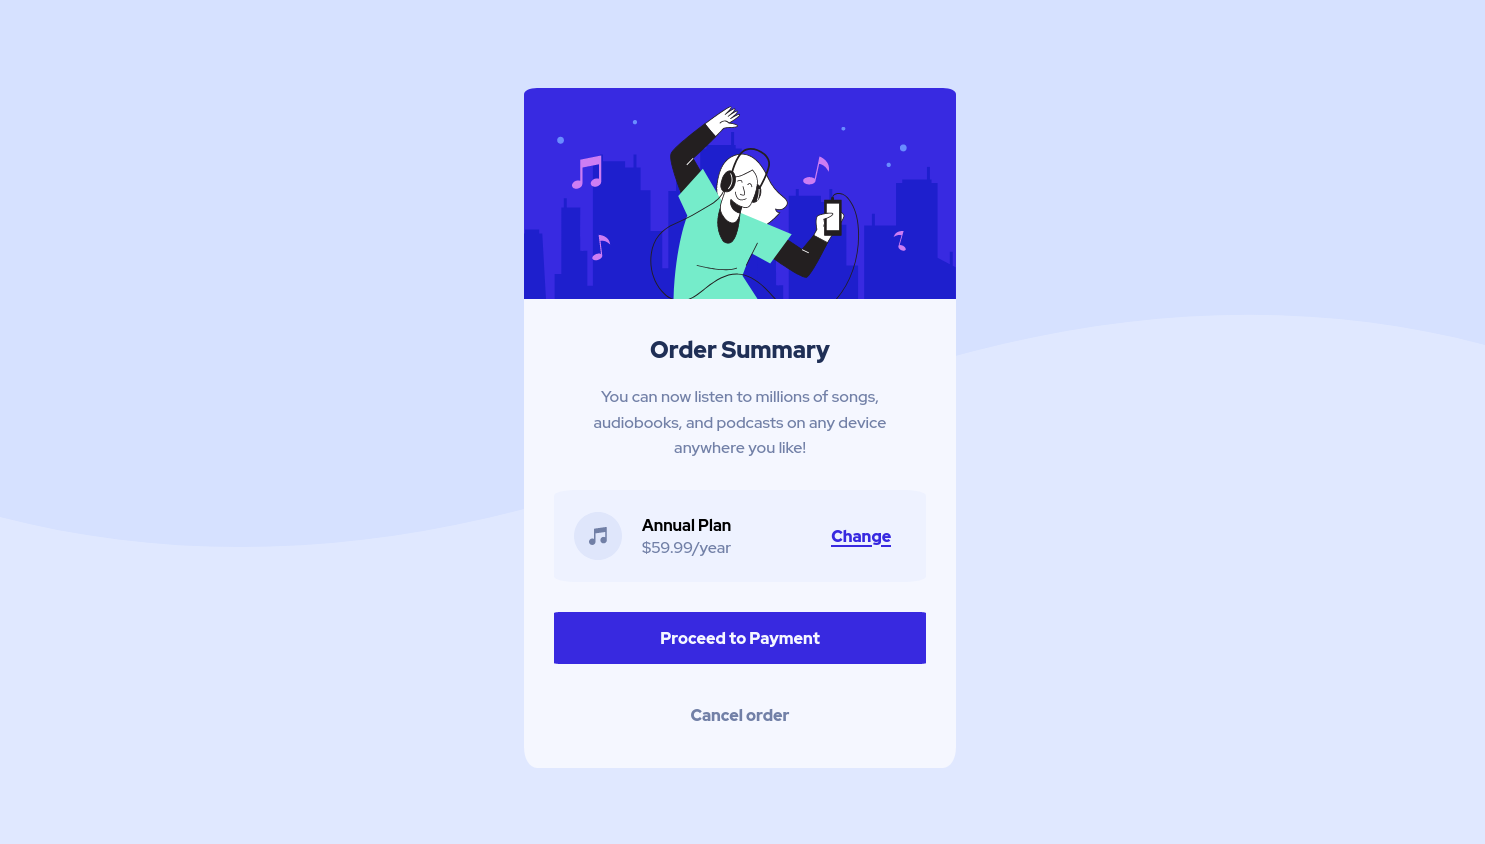
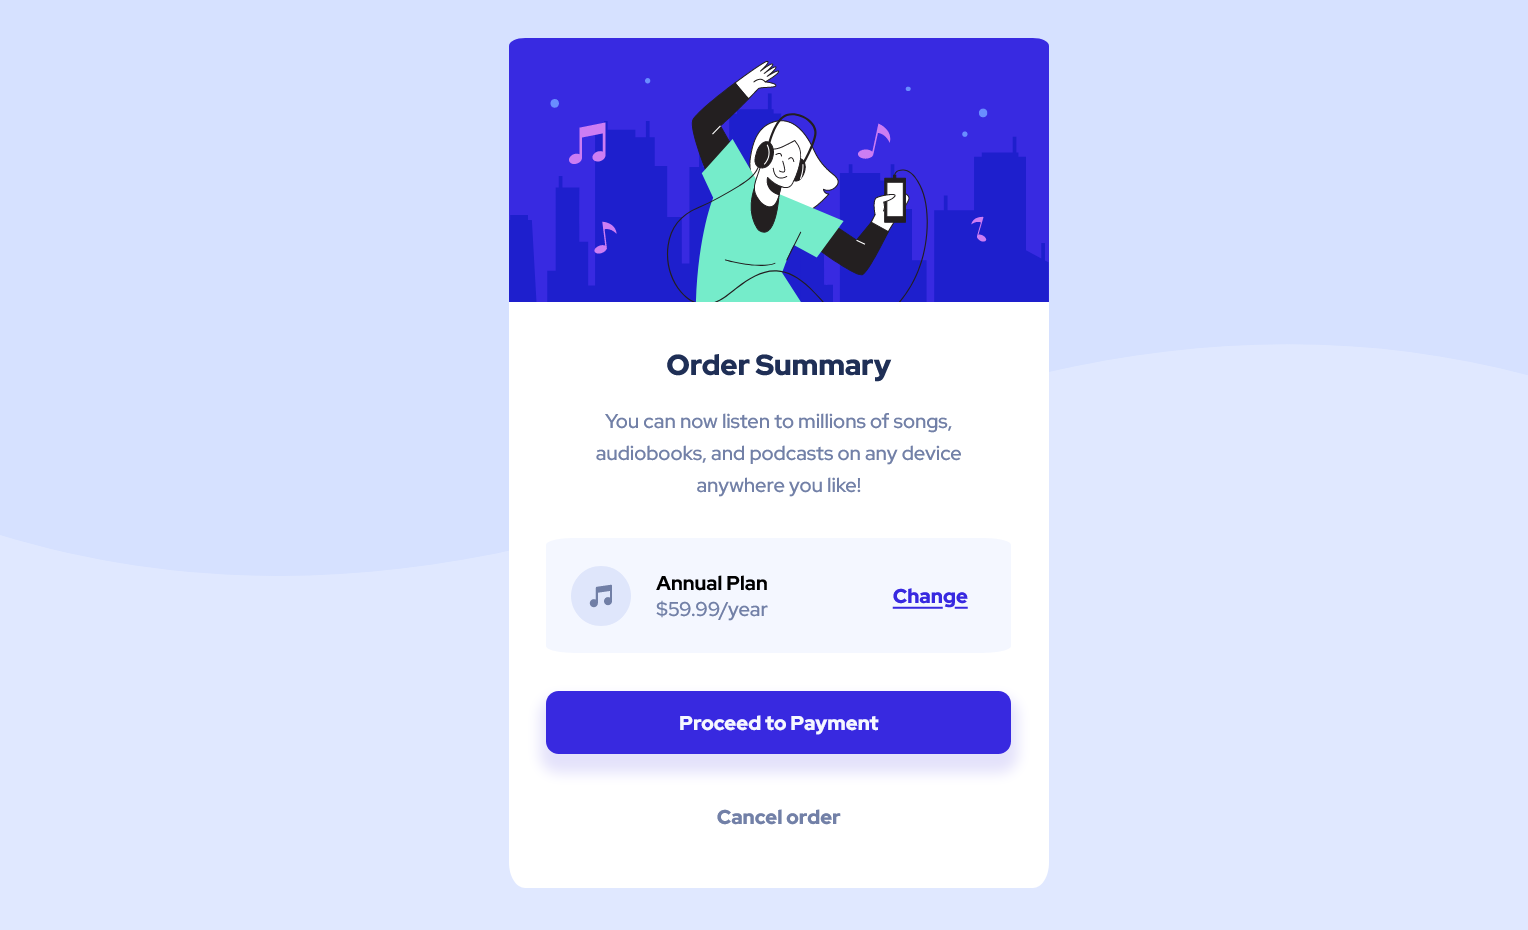
changed border radius

Changed region(s): [[0.3098, 0.0308, 0.7125, 0.955]]

diff --git a/styles.css b/styles.css
@@ -5,7 +5,7 @@
 }
 
 body {
-  background-color: #e0e8ff;
+  background-color: hsl(225deg, 100%, 94%);
 }
 
 #box {
@@ -21,7 +21,7 @@ body {
   height: 680px;
 }
 #box #descrip {
-  color: #7280a7;
+  color: hsl(224deg, 23%, 55%);
   font-family: "Red Hat Display", sans-serif;
   font-weight: 500;
   font-size: 16px;
@@ -44,7 +44,7 @@ body {
 
 h1 {
   font-family: "Red Hat Display", sans-serif;
-  color: #1f2f56;
+  color: hsl(223deg, 47%, 23%);
   font-weight: 900;
   font-size: 23px;
   text-align: center;
@@ -57,7 +57,7 @@ h1 {
   align-items: center;
   margin: 30px;
   padding: 22px 20px 22px 20px;
-  background-color: rgba(224, 232, 255, 0.356);
+  background-color: hsla(225deg, 100%, 94%, 0.356);
   border-radius: 6%;
 }
 #plan div {
@@ -72,7 +72,7 @@ h1 {
   font-weight: 700;
 }
 #plan div p {
-  color: #7280a7;
+  color: hsl(224deg, 23%, 55%);
   font-family: "Red Hat Display", sans-serif;
   font-weight: 500;
   font-size: 16px;
@@ -81,7 +81,7 @@ h1 {
   font-family: "Red Hat Display", sans-serif;
   font-size: 16px;
   font-weight: 900;
-  color: #3829e0;
+  color: hsl(245deg, 75%, 52%);
   text-decoration: underline;
   margin-left: 100px;
 }
@@ -94,13 +94,14 @@ h1 {
 h3 {
   font-family: "Red Hat Display", sans-serif;
   font-weight: 900;
-  background-color: #3829e0;
+  background-color: hsl(245deg, 75%, 52%);
   font-size: 16px;
   padding: 15px;
-  color: #f5f7ff;
+  color: hsl(225deg, 100%, 98%);
   text-align: center;
-  border-radius: 2%;
+  border-radius: 10px;
   margin: 0 30px 0 30px;
+  box-shadow: 0px 10px 10px 5px #e4e2fb;
 }
 
 h3:hover {
@@ -111,14 +112,14 @@ h3:hover {
 #order {
   font-family: "Red Hat Display", sans-serif;
   font-weight: 900;
-  color: #7280a7;
+  color: hsl(224deg, 23%, 55%);
   text-align: center;
   margin: 40px 0 30px 0;
 }
 
 #order:hover {
   cursor: pointer;
-  color: #1f2f56;
+  color: hsl(223deg, 47%, 23%);
 }
 
 @media screen and (max-width: 446px) {
@@ -126,7 +127,6 @@ h3:hover {
     max-width: 22rem;
     height: 640px;
   }
-
   #plan div h2 {
     font-size: 15px;
   }

diff --git a/styles.scss b/styles.scss
@@ -128,8 +128,9 @@ h3
     padding: 15px;
     color: $color-3;
     text-align: center;
-    border-radius: 2%;
+    border-radius: 10px;
     margin: 0 30px 0 30px;
+    box-shadow: 0px 10px 10px 5px #e4e2fb;
 }
 
 h3:hover
